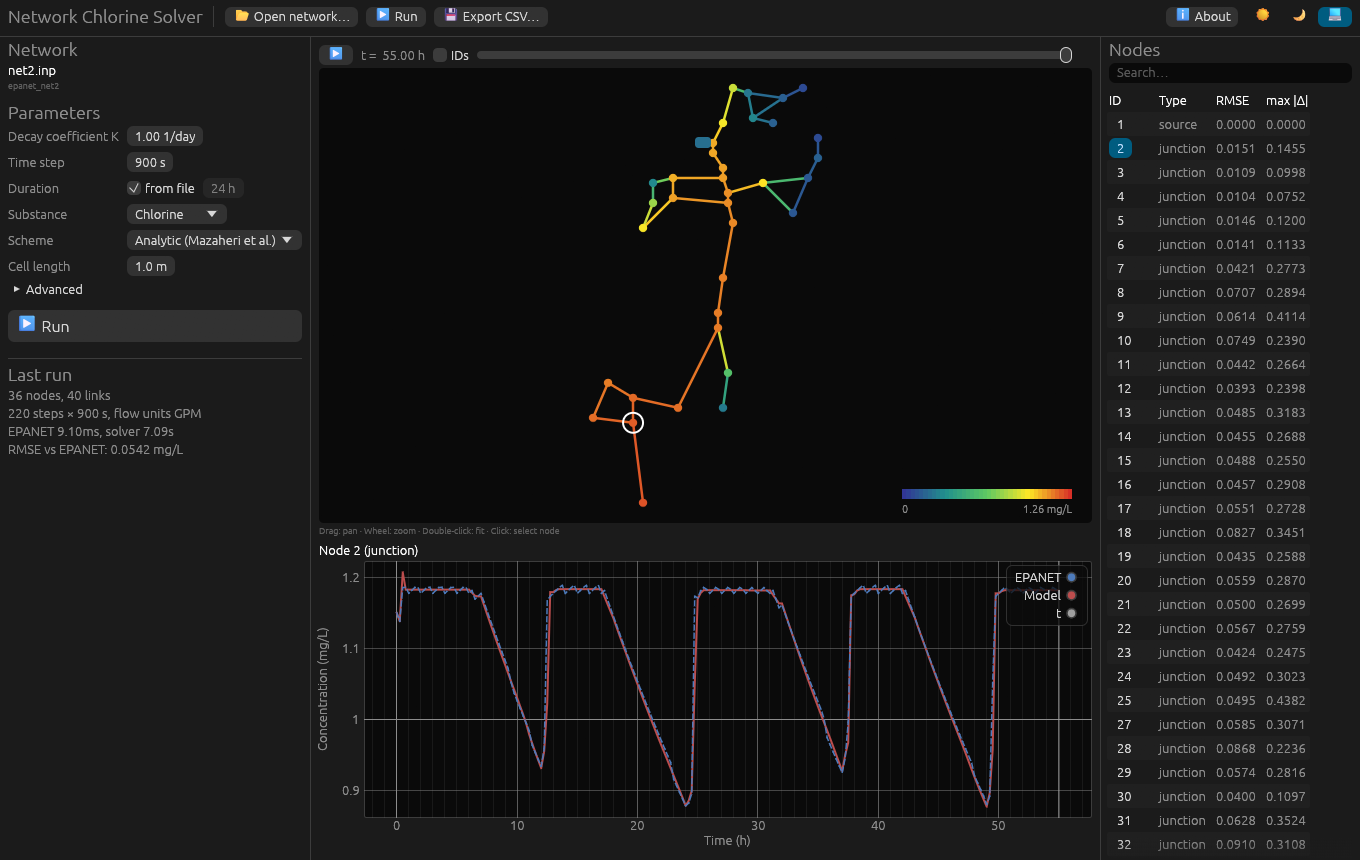
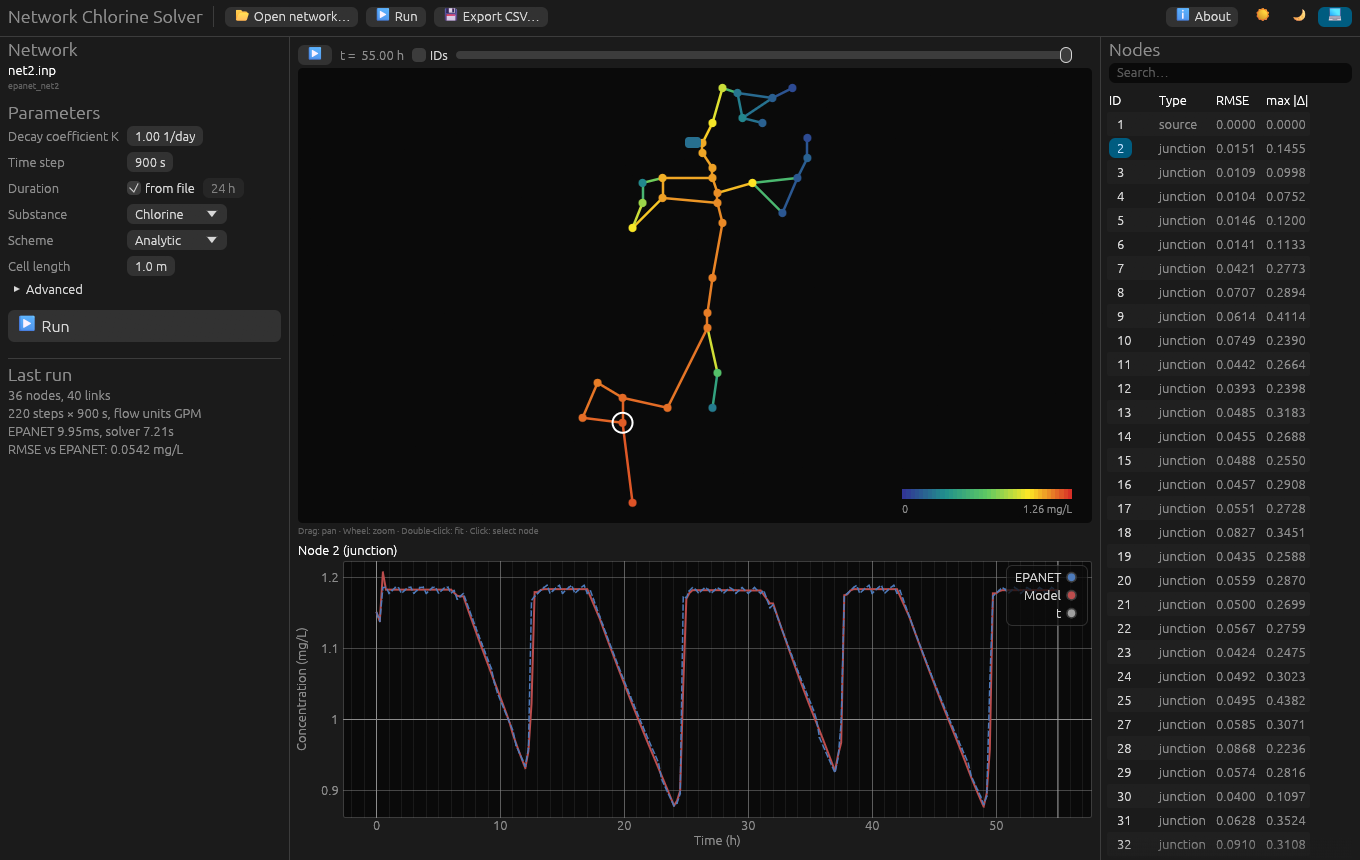
Remove the method citation from the desktop application
The scheme is labelled "Analytic" and the About window describes the
method without naming its authors. The citation stays in the README.
Screenshot updated.

diff --git a/crates/chlorine-gui/src/about.rs b/crates/chlorine-gui/src/about.rs
@@ -1,4 +1,4 @@
-//! About window: version, license, method citation and third-party notices.
+//! About window: version, license and third-party notices.
 
 use eframe::egui::{self, RichText};
 
@@ -6,10 +6,6 @@ const LICENSE: &str = include_str!("../../../LICENSE");
 const THIRD_PARTY: &str = include_str!("../../../THIRD_PARTY_LICENSES.txt");
 
 pub const COPYRIGHT: &str = "Copyright (C) 2024-2026 Gorkem Bora Candan";
-
-pub const CITATION: &str = "Mazaheri, M., Samani, J. M. V., & Samani, H. M. V. (2013). Analytical solution to \
-one-dimensional advection-diffusion equation with several point sources through arbitrary time-dependent \
-emission rate patterns. Journal of Agricultural Science and Technology, 15, 1231-1245.";
 
 #[derive(Default, PartialEq, Clone, Copy)]
 enum Tab {
@@ -64,8 +60,7 @@ fn about_tab(ui: &mut egui::Ui) {
 
     ui.add_space(10.0);
     ui.label(RichText::new("Method").strong());
-    ui.label("Pipe transport uses the analytical solution of the advection-dispersion-reaction equation by:");
-    ui.label(RichText::new(CITATION).italics());
+    ui.label("Pipe transport uses an analytical solution of the one-dimensional advection-dispersion-reaction equation.");
     ui.add_space(6.0);
     ui.label(RichText::new("Hydraulics").strong());
     ui.label("Hydraulic and reference water quality results are computed with EPANET 2.2 (MIT License).");

diff --git a/crates/chlorine-gui/src/app.rs b/crates/chlorine-gui/src/app.rs
@@ -187,11 +187,11 @@ impl App {
             ui.label("Scheme");
             egui::ComboBox::from_id_salt("scheme")
                 .selected_text(match self.params.scheme {
-                    Scheme::Analytic => "Analytic (Mazaheri et al.)",
+                    Scheme::Analytic => "Analytic",
                     Scheme::Legacy => "Legacy (Python)",
                 })
                 .show_ui(ui, |ui| {
-                    ui.selectable_value(&mut self.params.scheme, Scheme::Analytic, "Analytic (Mazaheri et al.)");
+                    ui.selectable_value(&mut self.params.scheme, Scheme::Analytic, "Analytic");
                     ui.selectable_value(&mut self.params.scheme, Scheme::Legacy, "Legacy (Python)");
                 });
             ui.end_row();
